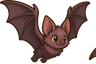
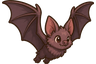
Remove cave_bat_0 wing bleed from neighboring frame.
Trim half-slice gap bleed and keep the largest component so bat frames stay clean on rebuild; bump content version to 1.8.3.

Changed region(s): [[0.0, 0.0, 1.0, 1.0], [0.9062, 0.7188, 1.0, 0.9375]]

diff --git a/tools/fix_cave_visuals.py b/tools/fix_cave_visuals.py
@@ -63,16 +63,121 @@ def _content_height(im: Image.Image) -> int:
     return bbox[3] - bbox[1]
 
 
-def _force_split_halves(im: Image.Image) -> list[Image.Image]:
-    """Split a strip into left/right halves by content bbox mid-x."""
+def _force_split_halves(im: Image.Image, *, gap: int = 8) -> list[Image.Image]:
+    """Split a strip into left/right halves by content bbox mid-x.
+
+    Leaves a few transparent columns at the cut so each figure does not keep
+    a sliver of the neighboring sprite when wings nearly touch.
+    """
     bbox = im.getbbox()
     if bbox is None:
         return []
     x0, y0, x1, y1 = bbox
     mid = (x0 + x1) // 2
-    left = im.crop((x0, y0, mid, y1))
-    right = im.crop((mid, y0, x1, y1))
+    half = max(1, gap // 2)
+    left = im.crop((x0, y0, max(x0 + 1, mid - half), y1))
+    right = im.crop((min(x1 - 1, mid + half), y0, x1, y1))
     return [f for f in (left, right) if f.getbbox() is not None]
+
+
+def _keep_largest_component(im: Image.Image, *, alpha_thresh: int = 8) -> Image.Image:
+    """Clear opaque pixels not 4-connected to the largest blob (edge bleed)."""
+    out = im.copy()
+    w, h = out.size
+    px = out.load()
+    visited = [[False] * w for _ in range(h)]
+    comps: list[list[tuple[int, int]]] = []
+    for y in range(h):
+        for x in range(w):
+            if px[x, y][3] <= alpha_thresh or visited[y][x]:
+                continue
+            q: deque[tuple[int, int]] = deque([(x, y)])
+            visited[y][x] = True
+            pixels: list[tuple[int, int]] = []
+            while q:
+                cx, cy = q.popleft()
+                pixels.append((cx, cy))
+                for dx, dy in ((1, 0), (-1, 0), (0, 1), (0, -1)):
+                    nx, ny = cx + dx, cy + dy
+                    if (
+                        0 <= nx < w
+                        and 0 <= ny < h
+                        and not visited[ny][nx]
+                        and px[nx, ny][3] > alpha_thresh
+                    ):
+                        visited[ny][nx] = True
+                        q.append((nx, ny))
+            comps.append(pixels)
+    if len(comps) <= 1:
+        return out
+    comps.sort(key=len, reverse=True)
+    for pixels in comps[1:]:
+        for x, y in pixels:
+            r, g, b, _ = px[x, y]
+            px[x, y] = (r, g, b, 0)
+    return out
+
+
+def _trim_far_edge_strip(im: Image.Image, *, side: str, max_cols: int = 4) -> Image.Image:
+    """Clear a thin right/left strip that is disconnected from the main body."""
+    out = im.copy()
+    w, h = out.size
+    if w < 8:
+        return out
+    px = out.load()
+    # Largest-component mask via flood from CoM of opaque pixels.
+    sx = sy = n = 0
+    for y in range(h):
+        for x in range(w):
+            if px[x, y][3] > 8:
+                sx += x
+                sy += y
+                n += 1
+    if n == 0:
+        return out
+    cx, cy = sx // n, sy // n
+    start = None
+    for r in range(max(w, h)):
+        for dy in range(-r, r + 1):
+            for dx in range(-r, r + 1):
+                x, y = cx + dx, cy + dy
+                if 0 <= x < w and 0 <= y < h and px[x, y][3] > 8:
+                    start = (x, y)
+                    break
+            if start is not None:
+                break
+        if start is not None:
+            break
+    if start is None:
+        return out
+    connected: set[tuple[int, int]] = {start}
+    q: deque[tuple[int, int]] = deque([start])
+    while q:
+        x, y = q.popleft()
+        for dx, dy in ((1, 0), (-1, 0), (0, 1), (0, -1)):
+            nx, ny = x + dx, y + dy
+            if (
+                0 <= nx < w
+                and 0 <= ny < h
+                and (nx, ny) not in connected
+                and px[nx, ny][3] > 8
+            ):
+                connected.add((nx, ny))
+                q.append((nx, ny))
+    xs = range(w - max_cols, w) if side == "right" else range(0, max_cols)
+    for x in xs:
+        for y in range(h):
+            if px[x, y][3] > 8 and (x, y) not in connected:
+                r, g, b, _ = px[x, y]
+                px[x, y] = (r, g, b, 0)
+    return out
+
+
+def _clean_bat_figure(fig: Image.Image, *, index: int) -> Image.Image:
+    """Drop neighboring-bat bleed after a half-slice."""
+    cleaned = _keep_largest_component(fig)
+    side = "right" if index == 0 else "left"
+    return _trim_far_edge_strip(cleaned, side=side, max_cols=4)
 
 
 def _slice_or_halves(im: Image.Image) -> list[Image.Image]:
@@ -248,6 +353,7 @@ def fix_bats() -> None:
     if len(figs) < 2:
         raise RuntimeError(f"bat strip: expected 2 figures, got {len(figs)}")
     for i, fig in enumerate(figs[:2]):
+        fig = _clean_bat_figure(fig, index=i)
         framed = _fit(fig, (96, 64))
         _save(framed, OUT / f"cave_bat_{i}.png")
         print(f"cave_bat_{i}: clear%={_clear_pct(framed):.1f}")

diff --git a/tools/build_cave_art.py b/tools/build_cave_art.py
@@ -11,6 +11,9 @@ ROOT = Path(__file__).resolve().parents[1]
 sys.path.insert(0, str(ROOT))
 
 from tools.art_pipeline import cutout, frame_sprite, slice_strip  # noqa: E402
+from collections import deque
+
+from PIL import Image
 
 # Generated concepts land in the Cursor project assets folder.
 CONCEPT_DIR = Path(
@@ -64,6 +67,66 @@ def _feet(im, size: tuple[int, int], target_h: int | None = None, baseline: int 
     th = target_h if target_h is not None else int(ch * 0.92)
     bl = baseline if baseline is not None else ch - 1
     return frame_sprite(im, canvas=size, target_h=th, baseline=bl)
+
+
+def _force_split_halves(im: Image.Image, *, gap: int = 8) -> list[Image.Image]:
+    bbox = im.getbbox()
+    if bbox is None:
+        return []
+    x0, y0, x1, y1 = bbox
+    mid = (x0 + x1) // 2
+    half = max(1, gap // 2)
+    left = im.crop((x0, y0, max(x0 + 1, mid - half), y1))
+    right = im.crop((min(x1 - 1, mid + half), y0, x1, y1))
+    return [f for f in (left, right) if f.getbbox() is not None]
+
+
+def _keep_largest_component(im: Image.Image, *, alpha_thresh: int = 8) -> Image.Image:
+    out = im.copy()
+    w, h = out.size
+    px = out.load()
+    visited = [[False] * w for _ in range(h)]
+    comps: list[list[tuple[int, int]]] = []
+    for y in range(h):
+        for x in range(w):
+            if px[x, y][3] <= alpha_thresh or visited[y][x]:
+                continue
+            q: deque[tuple[int, int]] = deque([(x, y)])
+            visited[y][x] = True
+            pixels: list[tuple[int, int]] = []
+            while q:
+                cx, cy = q.popleft()
+                pixels.append((cx, cy))
+                for dx, dy in ((1, 0), (-1, 0), (0, 1), (0, -1)):
+                    nx, ny = cx + dx, cy + dy
+                    if (
+                        0 <= nx < w
+                        and 0 <= ny < h
+                        and not visited[ny][nx]
+                        and px[nx, ny][3] > alpha_thresh
+                    ):
+                        visited[ny][nx] = True
+                        q.append((nx, ny))
+            comps.append(pixels)
+    if len(comps) <= 1:
+        return out
+    comps.sort(key=len, reverse=True)
+    for pixels in comps[1:]:
+        for x, y in pixels:
+            r, g, b, _ = px[x, y]
+            px[x, y] = (r, g, b, 0)
+    return out
+
+
+def _clean_bat_figure(fig: Image.Image, *, index: int) -> Image.Image:
+    return _keep_largest_component(fig)
+
+
+def _slice_bat_figures(cut: Image.Image) -> list[Image.Image]:
+    figs = slice_strip(cut)
+    if len(figs) < 2:
+        figs = _force_split_halves(cut)
+    return [_clean_bat_figure(f, index=i) for i, f in enumerate(figs[:2])]
 
 
 def main() -> int:
@@ -131,7 +194,7 @@ def main() -> int:
     bat_src = CONCEPT_DIR / "cave_bat_strip_concept.png"
     if bat_src.is_file():
         shutil.copy2(bat_src, SOURCE_DIR / bat_src.name)
-        figures = slice_strip(cutout(bat_src))
+        figures = _slice_bat_figures(cutout(bat_src, level=185))
         for i, fig in enumerate(figures[:2]):
             framed = _fit(fig, (96, 64))
             path = OUT_DIR / f"cave_bat_{i}.png"

diff --git a/README.md b/README.md
@@ -2,7 +2,7 @@
 
 Child-friendly 2D western cowboy platformer (Godot **4.4**). Aimed at kids ~6: forgiving jumps, nonviolent lasso. **Classic mode** has no lives or game over; **Advanced Mode** (chosen in **Settings** before starting or continuing a slot) adds a three-life limit, badge milestones, and a game-over return to the start screen. Pick **Cowboy** or **Cowgirl** in Settings — the choice applies across all save slots. **German is the default language**; English is fully supported.
 
-**Content version:** `1.8.2` (see `content_version.txt`). Launchers reimport when this stamp changes.
+**Content version:** `1.8.3` (see `content_version.txt`). Launchers reimport when this stamp changes.
 
 This README is the **binding source of truth** for gameplay, level design, art, i18n, and audio. Agents and contributors must follow it (see [Agent / contributor rules](#agent--contributor-rules)).
 
